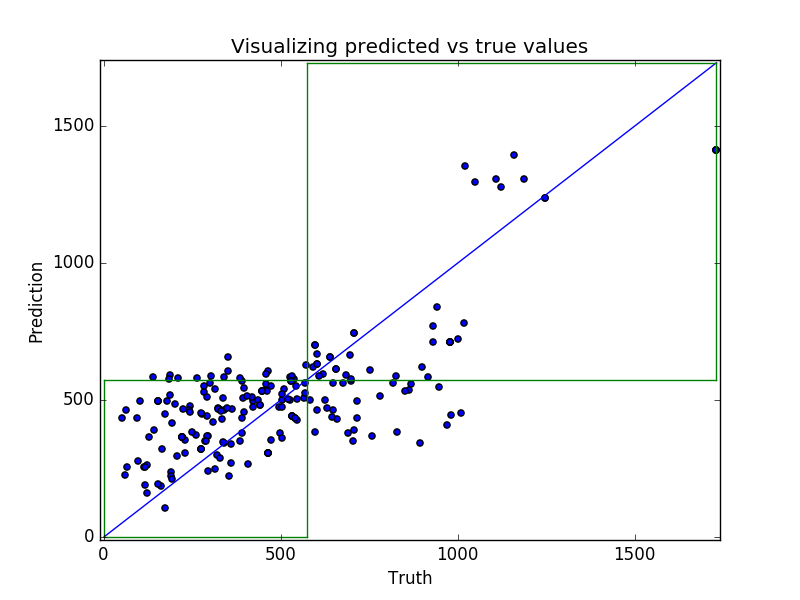
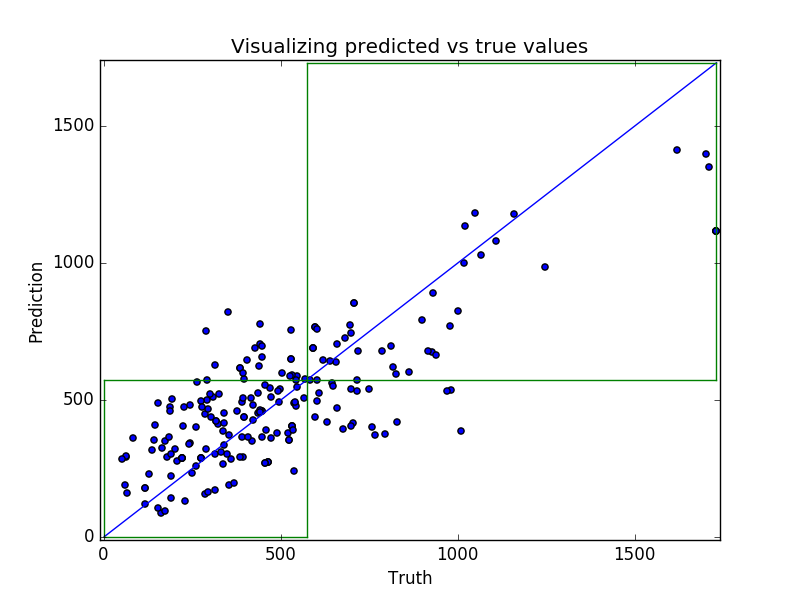
Updating the model
Correcting for previous over-fitting.  Also many cosmetic and feature
updates that happened throughout the week.

diff --git a/templates/index.html b/templates/index.html
@@ -1,0 +1,14 @@
+<!DOCTYPE html>
+<html>
+	<head>
+		<meta charset="utf-8">
+		<title>TapPy</title>
+	</head>
+	<body>
+		<div style="text-align:center;">
+		<iframe allowfullscreen="true" allowtransparency="true" frameborder="0" height="460" id="talk_frame_349106" mozallowfullscreen="true" src="http://speakerdeck.com/player/3d68d044097f40609ffda61779494591" style="border:0; padding:0; margin:0; background:transparent;" webkitallowfullscreen="true" width="710"></iframe>`
+		<h1><a href="https://idxfellows2016b.slack.com/messages/tappy/">Slack channel to demo TapPy</a><br></h1>
+		<h1><a href="https://github.com/gnatman/TapPy">TapPy's Github Project Page</a></h1>
+		</div>
+	</body>
+</html>

diff --git a/fake_chat.py b/fake_chat.py
@@ -1,0 +1,89 @@
+from slackclient import SlackClient
+import tappy_settings
+
+slack_client = SlackClient(tappy_settings.SLACK_TOKEN)
+
+channel_id = 'C1L28ETUH'
+
+def send_message(message, username, emoji):
+    slack_client.api_call(
+    "chat.postMessage",
+    channel=channel_id,
+    text=message,
+    username=username,
+    icon_emoji=emoji)
+    
+message = "I use the ice chest this morning. Left it open to dry out.  If still wet when you open today then put it in the sun(open) to dry.  Put it back under the stairs when dry. Thanks."
+username = 'Dean'
+emoji = ':full_moon_with_face:'
+send_message(message, username, emoji)
+
+message = "I'm stil going to open just no food. Band wants to play anyways I spoke to them last night. And I know a few folks who are coming to see the band so hopefully a litle bit of sales"
+username = 'Kaleigh'
+emoji = ':japanese_ogre:'
+send_message(message, username, emoji)
+
+message = "@jimmy is predicting 80-90 people for sour night.  That's total, so I think selling a max of 70 8oz packages is the way to go."
+username = 'John'
+emoji = ':alien:'
+send_message(message, username, emoji)
+
+message = "A couple things that need to happen before we start the sours. Are there checkins for each of the beers on untappd yet? If there are not sheets printed out explaining the event/beers/pricing I can try and whip something up quick before I open at 2. Also I heard talk about having different release times for the beers? If I'm forgetting something let me know"
+username = 'Aaron'
+emoji = ':ghost:'
+send_message(message, username, emoji)
+
+message = "Also need to talk about staff drinking. While I would love to drink the sours all night, the event is to make money. So we need to discuss how much staff can drink since it will directly affect how much we have for sale.  (The small batches do have a couple extra gallons but it's still something to keep in mind)"
+username = 'John'
+emoji = ':alien:'
+send_message(message, username, emoji)
+
+message = 'How did we do on Saturday?'
+username = 'Aaron'
+emoji = ':ghost:'
+send_message(message, username, emoji)
+
+message = 'Something around $1,500 I think.'
+username = 'John'
+emoji = ':alien:'
+send_message(message, username, emoji)
+
+message = 'Nice! We need to do more events like that.'
+username = 'Aaron'
+emoji = ':ghost:'
+send_message(message, username, emoji)
+    
+message = 'I am having a very hard time getting a food truck saturday!'
+username = 'Kaleigh'
+emoji = ':japanese_ogre:'
+send_message(message, username, emoji)
+
+message = 'Ok. Would you figure out what we need to do to pull a temporary food permit? May have to just sell pizza'
+username = 'Dean'
+emoji = ':full_moon_with_face:'
+send_message(message, username, emoji)
+
+message = 'I got contacted by the comedy group. Do we want to open on a thrusday night for it or a regular friday?'
+username = 'Kaleigh'
+emoji = ':japanese_ogre:'
+send_message(message, username, emoji)
+
+message = 'Sure.  Is this the person Nick knows or someone else?  Maybe we do comedy Thursdays twice a month?'
+username = 'John'
+emoji = ':alien:'
+send_message(message, username, emoji)
+
+message = 'Anyone opposed if I stay late tomorrow night at the brewery and let some alcoholic firefighters come buy pints and hangout? All on me to open and close?'
+username = 'Aaron'
+emoji = ':ghost:'
+send_message(message, username, emoji)
+
+message = "Beer drinking firefighters are fine with me.  If they're alcoholic, they probably should meet somewhere else with sponsors and tokens."
+username = 'John'
+emoji = ':alien:'
+send_message(message, username, emoji)
+
+message = "Do we have a prediction for how much we're going to do on Friday?"
+username = 'Dean'
+emoji = ':full_moon_with_face:'
+send_message(message, username, emoji)

diff --git a/receive.py b/receive.py
@@ -1,5 +1,5 @@
 import os
-from flask import Flask, request, Response
+from flask import Flask, request, Response, render_template
 from slackclient import SlackClient
 import random
 from make_prediction import predict_by_weekday
@@ -28,7 +28,7 @@ def send_message(channel_id, message):
 		"chat.postMessage",
 		channel=channel_id,
 		text=message,
-		username='Project-Delta-Night',
+		username='TapPy',
 		icon_emoji=':unicorn_face:'
 	)
 
@@ -43,24 +43,37 @@ def inbound():
 		inbound_message = username + " in " + channel + " says: " + text
 		print(inbound_message)
 		channel_id = request.form.get('channel_id')
+		th_string = 'th'
 		if text == 'ping':
-			message = "Pong"
+			message = "Pong "+channel_id
 			message = '-Input command: "'+text+'" by '+username+'-'+'\n'+message
 			send_message(channel_id, message)
 		elif text.lower() == 'friday':
 			date, value = predict_by_weekday(text.lower())
 			number_of_bartenders = 1
-			if value > 600:
+			if value > 575:
 				number_of_bartenders = 2
-			message = "For this "+date.strftime("%A")+", "+date.strftime("%B")+" "+str(date.day)+"th "+str(date.year)+", I predict we will do $"+str(value)+" in tap room sales.  Therefore I recommend scheduling "+str(number_of_bartenders)+" bartender(s)."
+			if date.day == 1:
+				th_string = 'st'
+			if date.day == 2:
+				th_string = 'nd'
+			if date.day == 3:
+				th_string = 'rd'
+			message = "For this "+date.strftime("%A")+", "+date.strftime("%B")+" "+str(date.day)+th_string+" "+str(date.year)+", I predict we will do $"+str(value)+" in tap room sales.  Therefore I recommend scheduling "+str(number_of_bartenders)+" bartender(s)."
 			message = '-Input command: "'+text+'" by '+username+'-'+'\n'+message
 			send_message(channel_id, message)
 		elif text.lower() == 'saturday':
 			date, value = predict_by_weekday(text.lower())
 			number_of_bartenders = 1
-			if value > 600:
+			if value > 575:
 				number_of_bartenders = 2
-			message = "For this "+date.strftime("%A")+", "+date.strftime("%B")+" "+str(date.day)+"th "+str(date.year)+", I predict we will do $"+str(value)+" in tap room sales.  Therefore I recommend scheduling "+str(number_of_bartenders)+" bartender(s)."
+			if date.day == 1:
+				th_string = 'st'
+			if date.day == 2:
+				th_string = 'nd'
+			if date.day == 3:
+				th_string = 'rd'
+			message = "For this "+date.strftime("%A")+", "+date.strftime("%B")+" "+str(date.day)+th_string+" "+str(date.year)+", I predict we will do $"+str(value)+" in tap room sales.  Therefore I recommend scheduling "+str(number_of_bartenders)+" bartender(s)."
 			message = '-Input command: "'+text+'" by '+username+'-'+'\n'+message
 			send_message(channel_id, message)
 		elif text.lower() == 'can we fuck sheep?':
@@ -82,7 +95,7 @@ def inbound():
 
 @app.route('/', methods=['GET'])
 def test():
-	return Response('It works!')
+	return render_template('index.html')
 
 if __name__ == "__main__":
 	app.run(debug=True)

diff --git a/create_classifier.py b/create_classifier.py
@@ -630,7 +630,9 @@ if isfile(output_summary):
 f = open(output_summary, 'w')
 N = len(working_df[['day_of_week']])
 #hand picked
-features = ['is_friday', 'is_saturday', 'week_of_year', 'mean_humidity', 'precipitation', 'mtd_precipitation', 'mean_temp_deviation_from_75', 'max_temp_deviation_from_75', 'heat_index', 'dew_point_high', 'fog_event', 'no_adverse_weather_event', 'rain_event', 'thunderstorm_event', 'in_school', 'days_since_open', 'brewery_events', 'days_since_school_year_start', 'any_truck', 'band', 'band_fans', 'special_event', 'daily_prior', 'yearly_prior', 'yesterday_prior', 'all_sports_games', 'all_sports_home_away', 'football_games', 'football_home_away', 'baseball_games', 'baseball_home_away', 'mens_basketball_games', 'mens_basketball_home_away', 'first_friday', 'holidays', 'in_january', 'in_february', 'in_march', 'in_april', 'in_may', 'in_june', 'in_july', 'in_august', 'in_september', 'in_october', 'in_november', 'in_december', 'in_2013', 'in_2014', 'in_2015', 'in_2016']
+#features = ['is_friday', 'is_saturday', 'week_of_year', 'mean_humidity', 'precipitation', 'mtd_precipitation', 'mean_temp_deviation_from_75', 'max_temp_deviation_from_75', 'heat_index', 'dew_point_high', 'fog_event', 'no_adverse_weather_event', 'rain_event', 'thunderstorm_event', 'in_school', 'days_since_open', 'brewery_events', 'days_since_school_year_start', 'any_truck', 'band', 'band_fans', 'special_event', 'daily_prior', 'yearly_prior', 'yesterday_prior', 'all_sports_games', 'all_sports_home_away', 'football_games', 'football_home_away', 'baseball_games', 'baseball_home_away', 'mens_basketball_games', 'mens_basketball_home_away', 'first_friday', 'holidays', 'in_january', 'in_february', 'in_march', 'in_april', 'in_may', 'in_june', 'in_july', 'in_august', 'in_september', 'in_october', 'in_november', 'in_december', 'in_2013', 'in_2014', 'in_2015', 'in_2016']
+#hand picked
+features = ['is_friday', 'is_saturday', 'week_of_year', 'mean_humidity', 'precipitation', 'mtd_precipitation', 'mean_temp_deviation_from_75', 'max_temp_deviation_from_75', 'heat_index', 'dew_point_high', 'fog_event', 'no_adverse_weather_event', 'rain_event', 'thunderstorm_event', 'in_school', 'days_since_open', 'brewery_events', 'days_since_school_year_start', 'any_truck', 'band', 'band_fans', 'daily_prior', 'yearly_prior', 'yesterday_prior', 'all_sports_games', 'all_sports_home_away', 'football_games', 'football_home_away', 'baseball_games', 'baseball_home_away', 'mens_basketball_games', 'mens_basketball_home_away', 'first_friday', 'holidays', 'in_january', 'in_february', 'in_march', 'in_april', 'in_may', 'in_june', 'in_july', 'in_august', 'in_september', 'in_october', 'in_november', 'in_december', 'in_2013', 'in_2014', 'in_2015', 'in_2016']
 
 #ALL THE FEATURES!!!! Except 'daily_subtotal', 'daily_tax', 'daily_gratuity', 'daily_grand_total', 'number_of_customers'
 # features = []

diff --git a/make_prediction.py b/make_prediction.py
@@ -108,6 +108,10 @@ def predict_by_weekday(day_name):
 	test_day['band'] = 1
 	#currently assuming there will not be a special event
 	test_day['brewery_events'] = 0
+	#currently assuming there will be a food truck
+	test_day['any_truck'] = 1
+	#currently assuming there will not be a football game
+	test_day['football_games'] = 0
 	
 	sql_query = """
 		SELECT * FROM daily_summary;
@@ -134,7 +138,8 @@ def predict_by_weekday(day_name):
 
 	#features = ['is_friday', 'no_adverse_weather_event', 'thunderstorm_event', 'days_since_open', 'brewery_events', 'days_since_school_year_start', 'any_truck', 'band', 'daily_prior', 'football_home_away', 'in_april', 'in_2016']
 	#features = ['is_friday', 'is_saturday', 'week_of_year', 'mean_humidity', 'precipitation', 'mtd_precipitation', 'mean_temp_deviation_from_75', 'max_temp_deviation_from_75', 'heat_index', 'dew_point_high', 'fog_event', 'no_adverse_weather_event', 'rain_event', 'thunderstorm_event', 'in_school', 'days_since_open', 'brewery_events', 'days_since_school_year_start', 'any_truck', 'band', 'band_fans', 'special_event', 'daily_prior', 'yearly_prior', 'yesterday_prior', 'all_sports_games', 'all_sports_home_away', 'football_games', 'football_home_away', 'baseball_games', 'baseball_home_away', 'mens_basketball_games', 'mens_basketball_home_away', 'first_friday', 'in_february', 'in_march', 'in_april', 'in_may', 'in_june', 'in_july', 'in_august', 'in_september', 'in_october', 'in_november', 'in_december', 'in_2013', 'in_2014', 'in_2015', 'in_2016', ]
-	features = ['is_friday', 'no_adverse_weather_event', 'thunderstorm_event', 'in_school', 'days_since_open', 'brewery_events', 'band', 'daily_prior', 'yearly_prior', 'in_april', 'in_2016', ]
+	#features = ['is_friday', 'no_adverse_weather_event', 'thunderstorm_event', 'in_school', 'days_since_open', 'brewery_events', 'band', 'daily_prior', 'yearly_prior', 'in_april', 'in_2016', ]
+	features = ['is_friday', 'no_adverse_weather_event', 'thunderstorm_event', 'in_school', 'days_since_open', 'brewery_events', 'days_since_school_year_start', 'any_truck', 'band', 'daily_prior', 'yearly_prior', 'football_games', 'in_april', 'in_2016', ]
 
 	
 
@@ -149,5 +154,5 @@ def predict_by_weekday(day_name):
 	#print(np.array(test_day_list).reshape(1, -1))
 	return (upcoming_day, round(tomorrow_pred[0]*(maxes['daily_subtotal'])[0],2))
 
-#print(predict_by_weekday('friday'))
-#print(predict_by_weekday('saturday'))
+print(predict_by_weekday('friday'))
+print(predict_by_weekday('saturday'))
